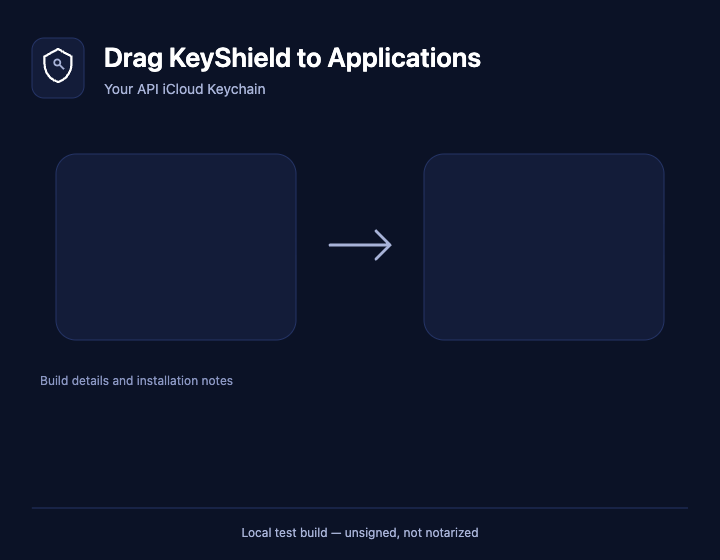
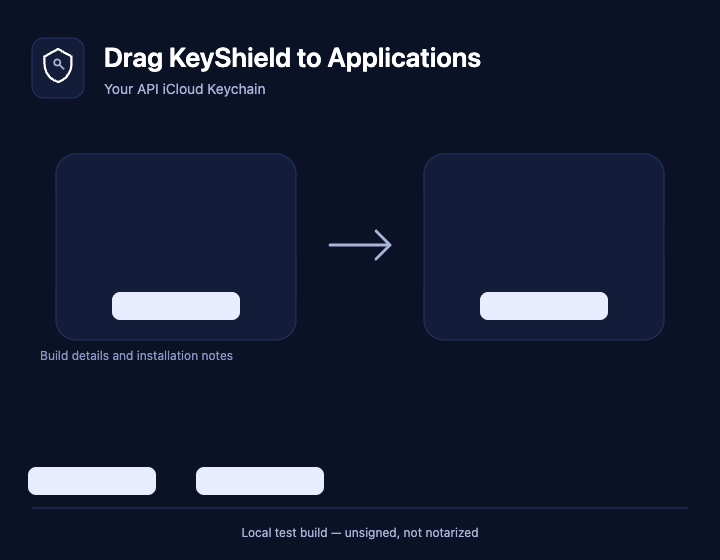
Keep Finder labels legible and fix installed visual capture

diff --git a/tests/desktop_mac_app.test.ts b/tests/desktop_mac_app.test.ts
@@ -352,7 +352,7 @@ describe("KeyShield Mac app is a 1:1 wrap of src/web", () => {
   it("configures the Finder background, bounds, and all four visible icon positions", () => {
     const { finderPresentation } = require("../src/desktop/scripts/pack-mac.cjs");
     const script = finderPresentation();
-    for (const value of ["icon view", "not arranged", ".background/installer.png", "{120, 90, 840, 672}", "{176, 245}", "{544, 245}", "{92, 445}", "{260, 445}"]) {
+    for (const value of ["icon view", "not arranged", ".background/installer.png", "{120, 90, 840, 672}", "{176, 245}", "{544, 245}", "{92, 420}", "{260, 420}", "label position of options to bottom", "shows icon preview of options to false"]) {
       expect(script).toContain(value);
     }
     const svg = read("src/desktop/assets/dmg-background.svg");
